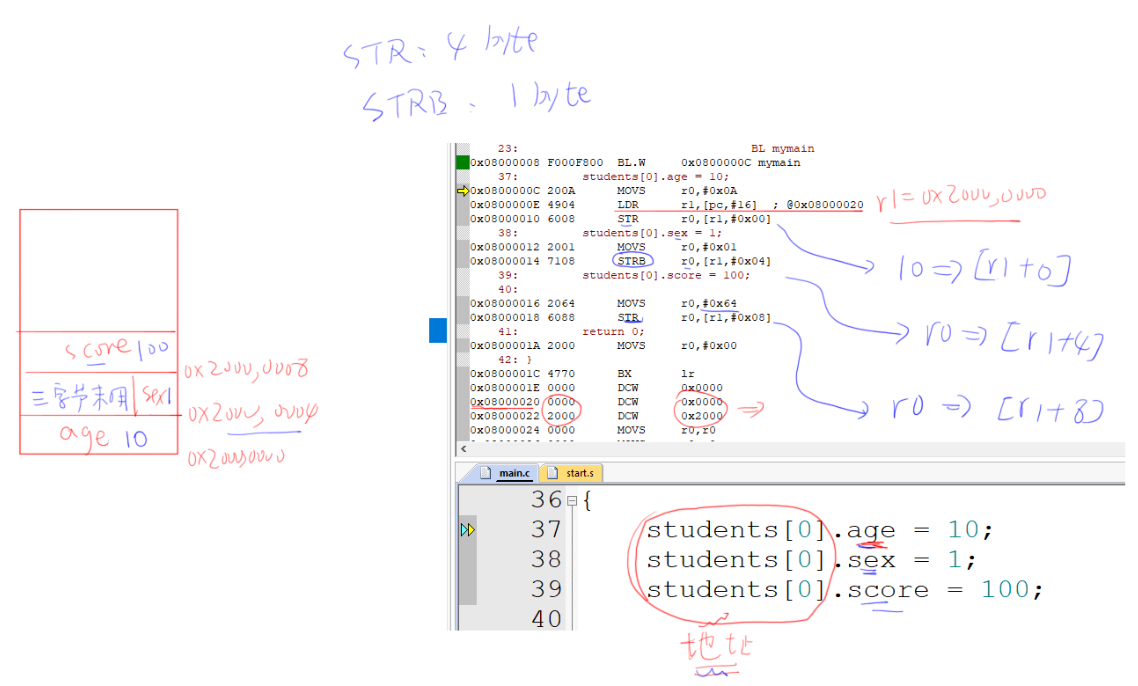
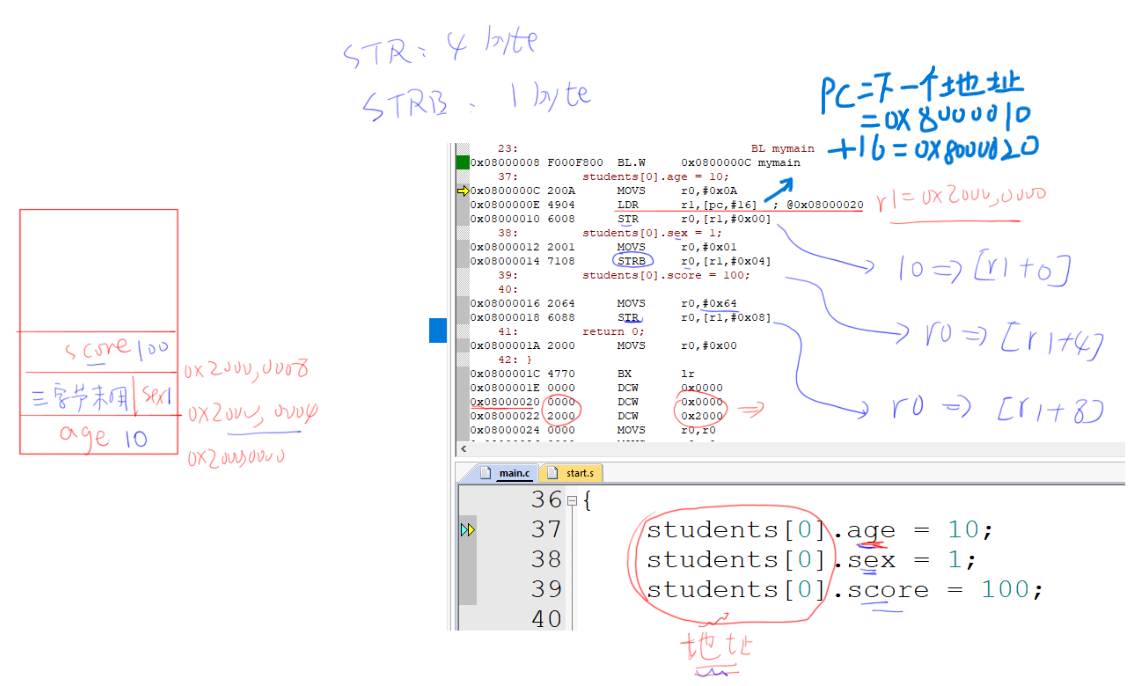
vault backup: 2025-03-03 23:04:57

Changed region(s): [[0.7074, 0.0918, 0.9227, 0.2449], [0.6766, 0.2449, 0.7074, 0.3061]]

diff --git a/C/C learn.md b/C/C learn.md
@@ -327,5 +327,7 @@ int main()
 ```
 
 ![[Pasted image 20250303224951.png]]
-
+```bash
+对于结构体内部地址分配
+```
 ![[Pasted image 20250303225941.png]]
